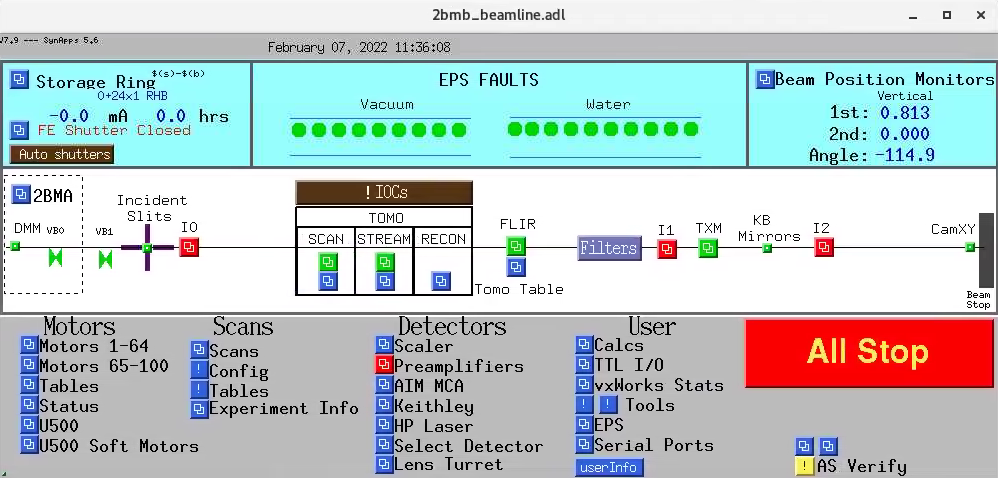
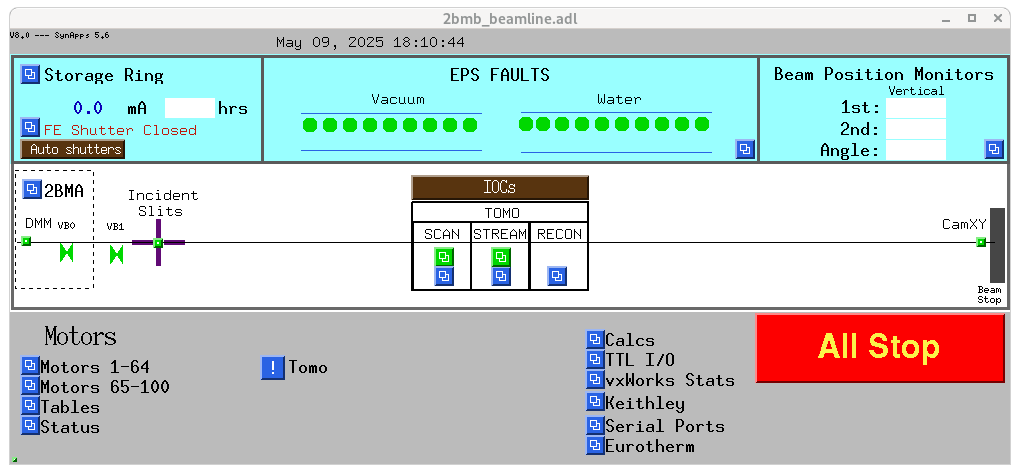
clean-up

Changed region(s): [[0.0, 0.0, 1.0, 1.0]]

diff --git a/docs/source/manual/item_010.rst b/docs/source/manual/item_010.rst
@@ -12,6 +12,11 @@ To start the main 2-BM beamline control user interface::
 
     [2bmb@arcturus,42,~]$ start_epics
 
+or::
+
+    [2bmb@arcturus,42,~]$ start_tomo
+
+
 .. image:: ../img/2bma_beamline.png 
    :width: 720px
    :align: center
@@ -22,39 +27,23 @@ To start the main 2-BM beamline control user interface::
    :align: center
    :alt: 2bmb_beamline
 
-
+.. image:: ../img/tomo_02.png 
+   :width: 720px
+   :align: center
+   :alt: tomo_01
 
 Tomography
 ==========
 
-To start the main tomography control screens for 2-BM-B for scanning or streaming data collection select in the main beamline control screens the corresponding screen for user, admin, tomoscan, tomoscan 2-BM:
+To start the main control screens for 2-BM-B for scanning, streaming data collection or real-time reconstruction select, in the main 2-BM-B beamline control screens, the corresponding screen for scan, stream or recon:
+
 
 .. image:: ../img/tomo_00.png 
-   :width: 128px
-   :align: center
-   :alt: tomo_00
-
-You can also start the above directly with:
-
-::
-
-    [2bmb@arcturus,42,~]$ start_tomo
-
-User interface
---------------
-
-.. image:: ../img/tomo_01.png 
-   :width: 512px
+   :width: 256px
    :align: center
    :alt: tomo_01
 
-Admin interface
----------------
 
-.. image:: ../img/tomo_02.png 
-   :width: 512px
-   :align: center
-   :alt: tomo_02
 
 Main tomography control screen
 ------------------------------
@@ -65,14 +54,7 @@ Main tomography control screen
    :alt: tomo_031
    
 
-To start tomoScanStream
------------------------
 
-
-.. image:: ../img/tomo_04.png 
-   :width: 128px
-   :align: center
-   :alt: tomo_04
 
 Main tomoScanStream control screen
 ----------------------------------

diff --git a/docs/source/ops/item_030.rst b/docs/source/ops/item_030.rst
@@ -17,7 +17,7 @@ To run meta::
 
     2bm@tomdet$ bash
     (base) 2bm@tomdet ~ $ conda activate ops
-    (ops) 2bm@tomdet ~ $ meta show --file-name /local/data/base_file_name_001.h5 
+    (ops)  2bm@tomdet ~ $ meta show --file-name /local/data/base_file_name_001.h5 
 
 optional arguments:
   -h, --help     show this help message and exit
